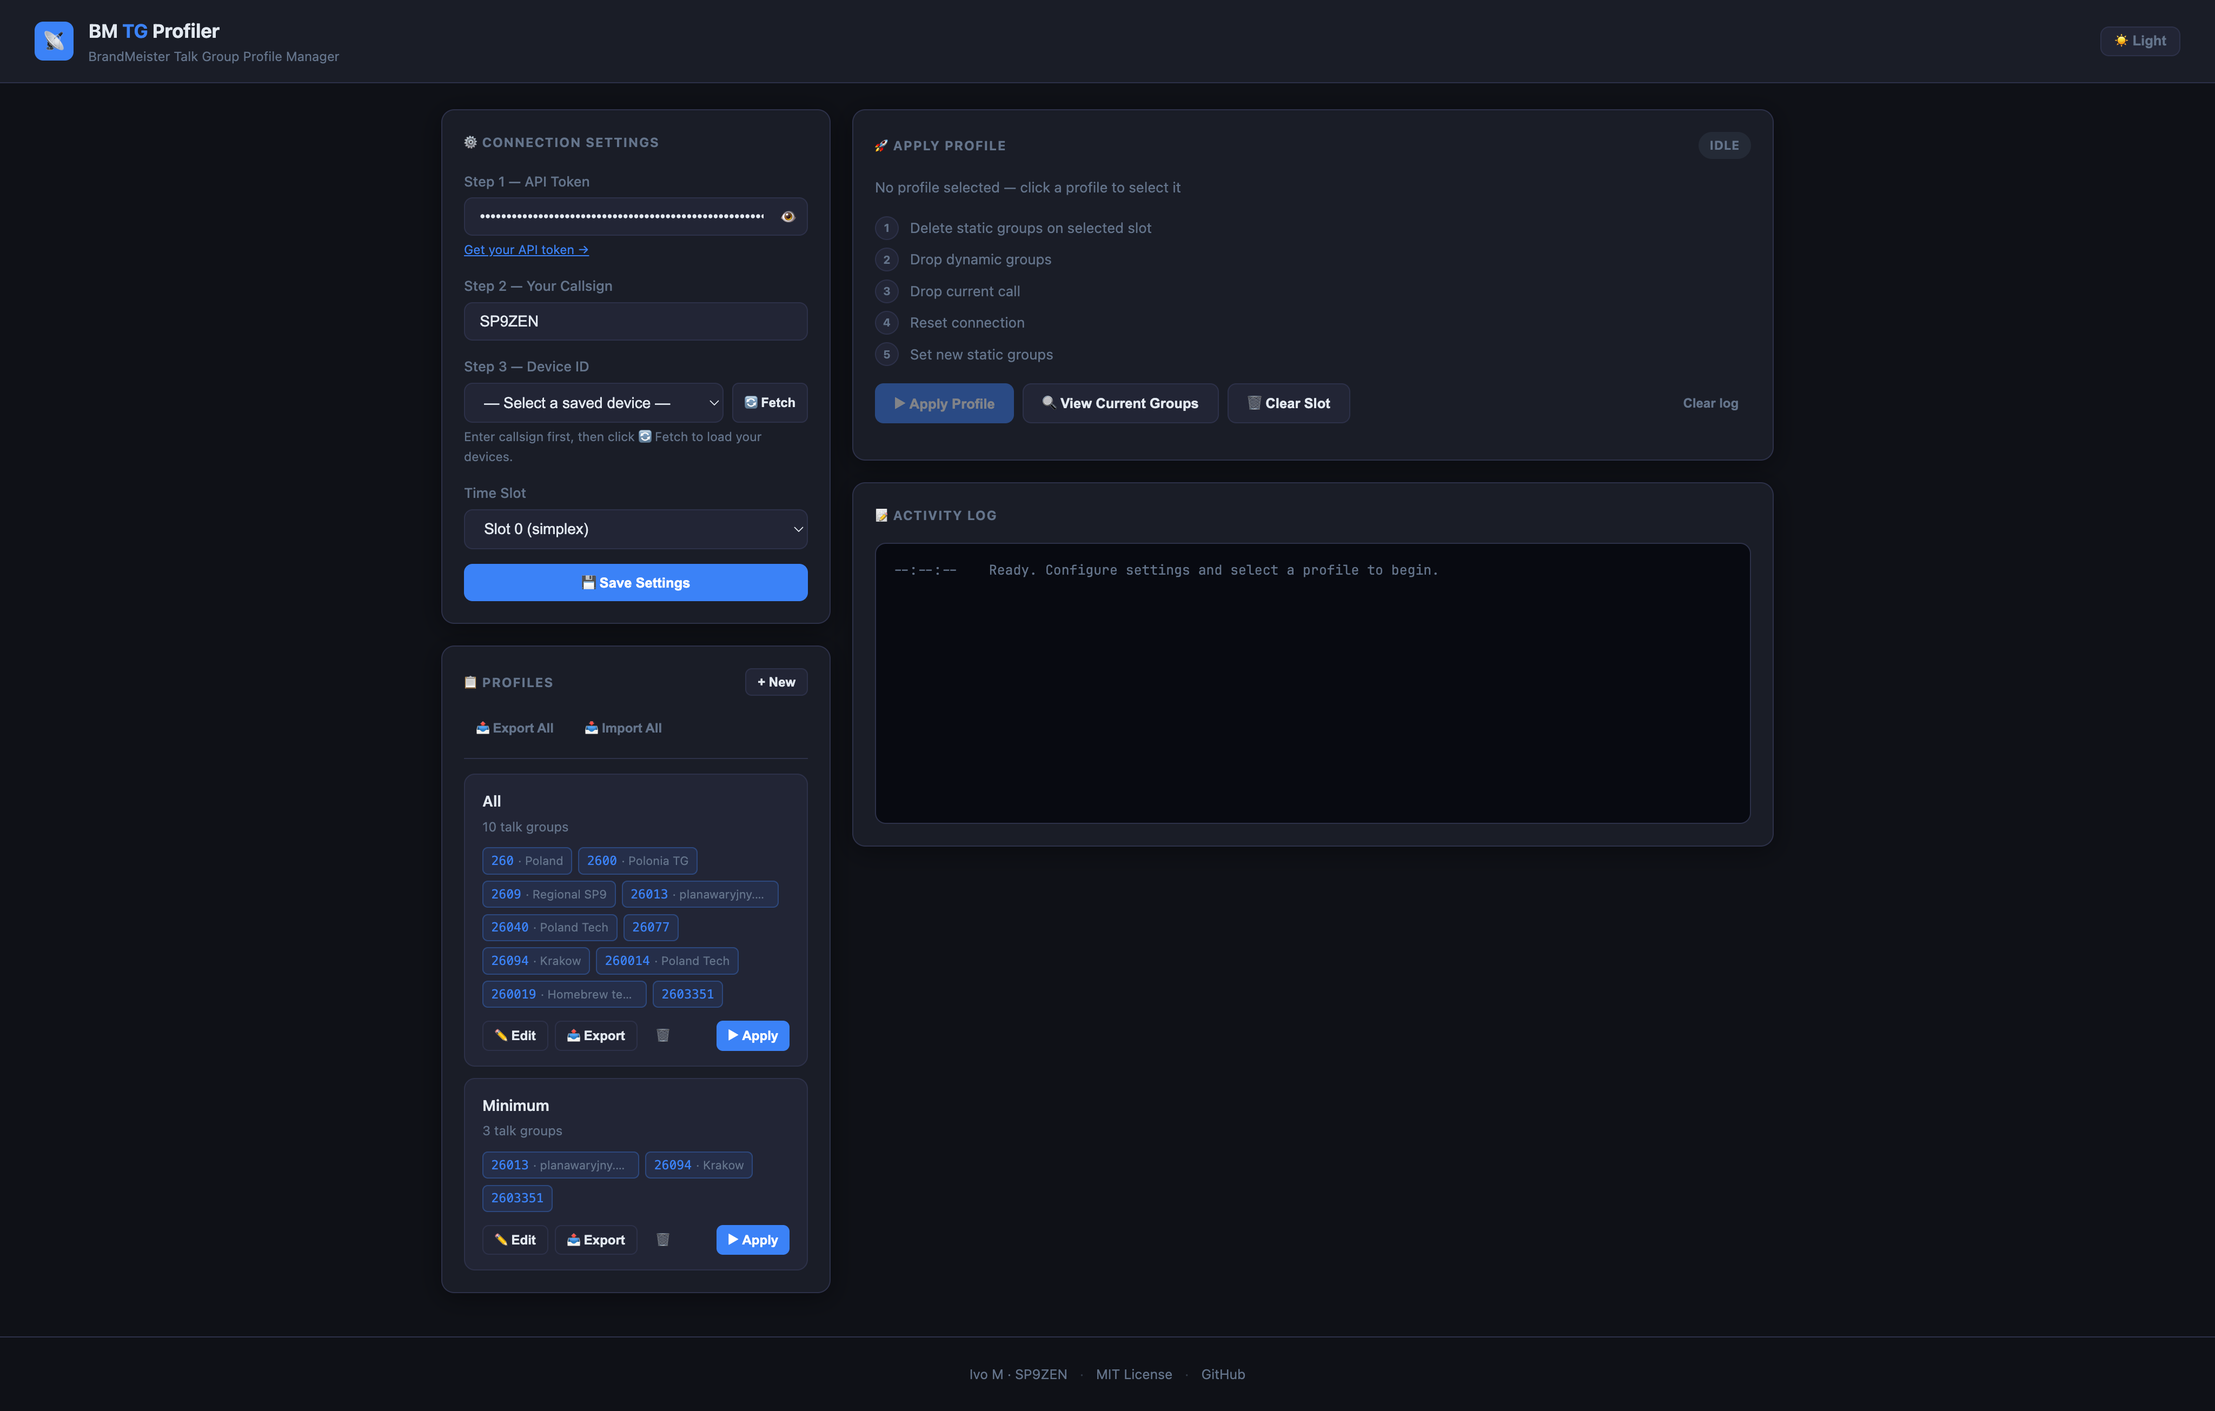
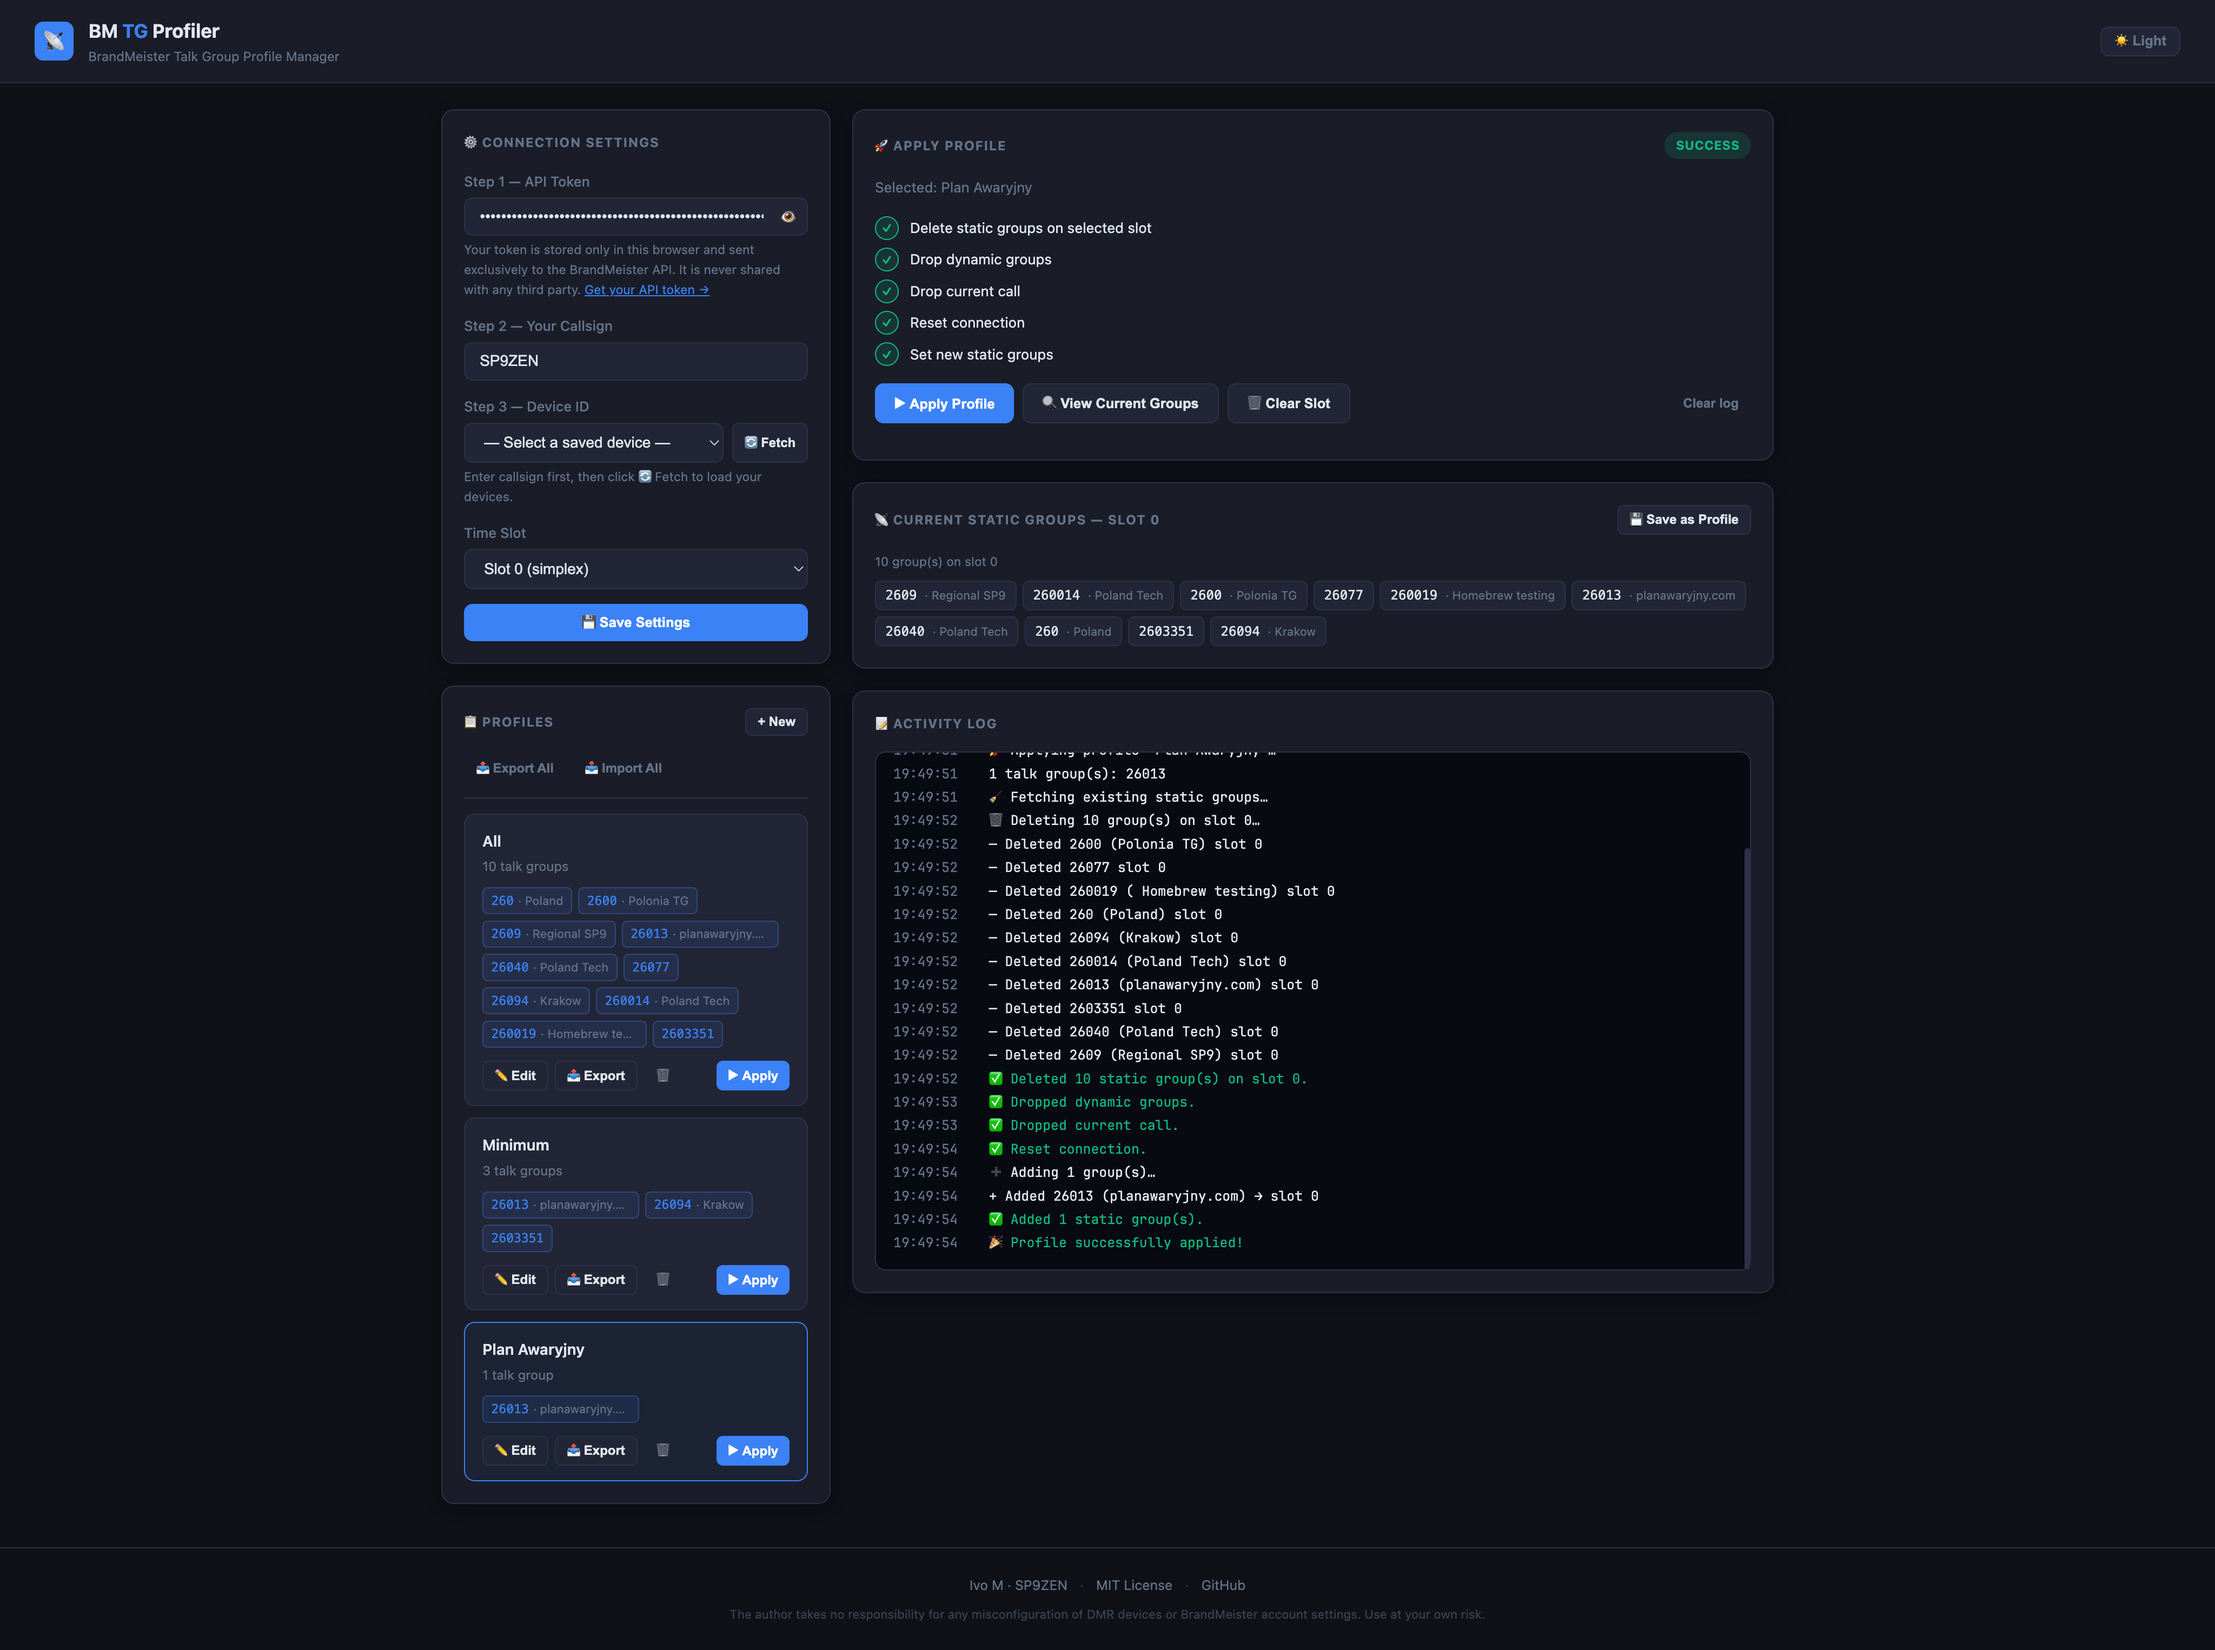
Update README and screenshot to reflect recent changes

diff --git a/README.md b/README.md
@@ -119,7 +119,12 @@ No installation required — it runs entirely in your browser and calls the Bran
 
 ## Features
 
-- **Connection Settings** — Configure your callsign, API token, and time slot. All values are persisted in browser `localStorage` and restored on every visit. Click **🔄** next to the device dropdown to fetch all devices registered to your callsign via the BrandMeister API (`/v2/device/byCall`) — each device is shown with its callsign, link name, and ID. Select the target device from the dropdown. Default time slot is **Slot 0 (simplex)**.
+- **Connection Settings** — Configured in three guided steps:
+  1. **API Token** — Enter your BrandMeister API token. It is stored only in your browser and sent exclusively to the BrandMeister API, never to any third party.
+  2. **Callsign** — Enter your callsign (e.g. `SP9ZEN`).
+  3. **Device ID** — Click **🔄 Fetch** to load all devices registered to your callsign via `/v2/device/byCall`. Select the target device from the dropdown.
+
+  All values are persisted in `localStorage` and restored on every visit. Default time slot is **Slot 0 (simplex)**.
 - **Profile Manager** — Create and manage multiple named profiles, each containing a list of talk group numbers. Profiles are stored in `localStorage` and survive page reloads.
 - **Dark / Light mode** — Toggle between dark and light themes using the button in the top-right corner of the page. The preference is saved in `localStorage` and applied automatically on the next visit.
 - **Talk group names** — For each talk group number, the name is automatically fetched from the BrandMeister API (`api.brandmeister.network/v2/talkgroup/{id}`) and displayed alongside the number in profile cards, the edit modal, the current groups panel, and the activity log. Names are cached in `localStorage` for 24 hours to avoid repeated requests.
@@ -129,7 +134,8 @@ No installation required — it runs entirely in your browser and calls the Bran
   3. Drop current call
   4. Reset connection
   5. Set new static groups on the selected slot
-- **View Current Groups** — Inspect which static groups are currently configured on the selected slot of the device without applying any changes.
+- **View Current Groups** — Inspect which static groups are currently configured on the selected slot of the device without applying any changes. Talk group names are resolved and displayed automatically.
+- **Save as Profile** — Snapshot the current static groups on the device into a new named profile directly from the Current Groups panel.
 - **Clear Slot** — Remove all static talk groups from the selected slot without applying a profile. A confirmation prompt is shown before deleting.
 - **Import / Export (single profile)** — Import talk groups from a JSON profile file (`{"static_groups": [...]}`) by pasting JSON or loading a file from disk. Export any profile back to JSON.
 - **Import / Export (all profiles)** — Export all profiles at once to a `bm-profiles.json` file for backup or transfer. Import that file on any device to restore all profiles in one step. Importing all profiles will replace existing ones — a confirmation prompt is shown before overwriting.
